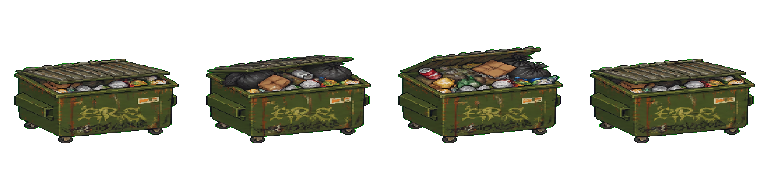
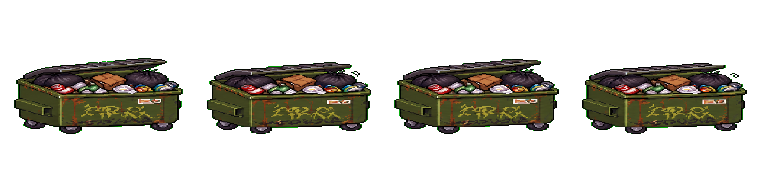
art: revise dumpster to cartoon 16-bit style

Changed region(s): [[0.0, 0.2188, 1.0, 0.75]]

diff --git a/concepts/dumpster/PROMPTS.md b/concepts/dumpster/PROMPTS.md
@@ -1,20 +1,20 @@
 # Dumpster generation prompts
 
-These are the exact prompts for the two source sheets. Both prompts use the same visual reference roles so that the dumpster silhouette and camera remain stable between states.
+These are the exact prompts for the revised cartoon-style source sheets. Both prompts use the existing hero and enemy atlases as hard style anchors so the dumpster reads as part of the same polished 16-bit cast.
 
 ## Reference roles
 
-- **Game-style reference:** the established Trash Dash pixel-art sheets; use for dark navy outlines, clustered pixel shading, semi-natural proportions, and crisp nearest-neighbor edges.
+- **Game-style reference:** `public/assets/generated/player-hero-motion.png` and `public/assets/generated/enemy-variety-motion.png`; use for chunky side-view silhouettes, dark navy outlines, 16-bit pixel clusters, simplified cartoon proportions, and crisp nearest-neighbor edges.
 - **Subject reference:** the approved dumpster goal design described in `docs/superpowers/specs/2026-08-05-dumpster-goal-sprite-design.md`; use for the three-quarter view, dark-green steel body, partly open lid, overflowing trash, graffiti, dents, rust, grime, and crooked caster wheels.
 - **Motion reference:** the preceding frame in the same generated sheet; preserve the exact footprint, camera angle, scale, and contact point while changing only the requested animation details.
 
 ## Idle source sheet
 
-> Create a 4-frame horizontal pixel-art animation sheet for the Trash Dash post-boss dumpster goal. Use the established Trash Dash sheets as the game-style reference and the approved dumpster goal design as the subject reference. Render exactly four evenly spaced 192×192 frames on one 768×192 canvas with a flat, uniform `#00ff00` chroma-key background. Keep a three-quarter side camera, silhouette, scale, footprint, wheel/contact point, and partly-open lid locked across all frames. Show an old dark-green steel dumpster with dark navy contour pixels, clustered three-to-four-value shading, dents, chipped paint, rust, grime, crooked caster wheels, overflowing bags/cans/cardboard/paper/spoiled-food shapes, and restrained non-legible graffiti. Animate only subtle ambient changes: frame 1 lid creak, frame 2 a small trash settle, frame 3 a restrained fly shift, frame 4 return toward the starting pose. Use hard pixel edges, no gradients, no anti-aliasing, and transparent-style separation from the key background. No text, logos, scenery, ground plane, shadows outside the silhouette, UI, characters, or extra props.
+> Create a polished 16-bit 4-frame horizontal sprite sheet for the Trash Dash post-boss dumpster goal. Match the existing raccoon hero and enemy atlases as hard style references: compact side-view silhouettes, chunky dark navy outline, simplified cartoon proportions, three-tone pixel clusters, and bright readable accents. Render exactly four evenly spaced 192×192 frames on one 768×192 canvas with a flat, uniform `#00ff00` chroma-key background. Keep the side-view silhouette, scale, footprint, wheel/contact point, lid angle, and trash pile locked across all frames. Show one old dark-olive dumpster with a big chunky body, partly-open lid, three black trash bags, a few large cans/cardboard/food scraps, two crooked wheels, simple non-legible graffiti squiggles, and one small rust patch. Animate only tiny lid bob and one bag wobble. Use hard pixel edges, no gradients, no anti-aliasing, no realistic metal texture, and no perspective rendering. No text, logos, scenery, ground plane, shadows outside the silhouette, UI, characters, flies, or extra props.
 
 ## Stink source sheet
 
-> Create a 4-frame horizontal pixel-art animation sheet for the same Trash Dash post-boss dumpster goal, using the established Trash Dash sheets as the game-style reference, the approved dumpster goal design as the subject reference, and the preceding frame as the motion reference. Render exactly four evenly spaced 192×192 frames on one 768×192 canvas with a flat, uniform `#00ff00` chroma-key background. Lock the dumpster's three-quarter side camera, silhouette, scale, footprint, wheel/contact point, lid angle, trash, graffiti, and palette across every frame. Animate a restrained stink loop: curling muted green-brown odor wisps emerge from the overflowing opening, rise, bend, and change shape across the four frames while remaining readable against varied backgrounds; keep the dumpster itself nearly stationary. Use dark navy contour pixels, clustered three-to-four-value shading, hard pixel edges, no gradients, and no anti-aliasing. No text, logos, scenery, ground plane, external shadows, UI, characters, flies, or any new objects beyond the odor wisps.
+> Create a polished 16-bit 4-frame horizontal stink animation sheet for the same Trash Dash dumpster, using the existing hero and enemy atlases plus the revised idle sheet as hard references. Render exactly four evenly spaced 192×192 frames on one 768×192 canvas with a flat, uniform `#00ff00` chroma-key background. Lock the dumpster's compact side-view silhouette, scale, footprint, wheel/contact point, lid angle, trash, graffiti, and palette across every frame. Animate only chunky muted green-brown odor puffs with dark navy pixel edges: small puff, taller curl, split puff, return puff. Keep the dumpster itself nearly stationary. Use three-tone clustered shading, hard pixel edges, no gradients, no realistic smoke, no anti-aliasing, no text, logos, scenery, ground plane, external shadows, UI, characters, flies, or any new objects beyond the odor puffs.
 
 ## Shared negative constraints
 

diff --git a/concepts/dumpster/README.md b/concepts/dumpster/README.md
@@ -16,7 +16,7 @@ Final frame indices are 0–3 for idle and 4–7 for stink. Suggested playback i
 
 ## Visual target
 
-Three-quarter side view of an old, dark-green steel dumpster with dents, chipped paint, rust, grime, crooked caster wheels, a partly open lid, overflowing trash, and non-legible graffiti marks. Use the established dark navy contour, clustered three-to-four-value pixel shading, crisp edges, and no gradients or anti-aliasing. Trash and graffiti may add color, but the dumpster body remains visually dominant.
+Compact side view of an old, dark-green steel dumpster with chunky cartoon proportions, dents, chipped paint, rust, grime, crooked caster wheels, a partly open lid, overflowing trash, and non-legible graffiti marks. Match the hero and enemy sprites with a dark navy contour, chunky 16-bit pixel clusters, three-tone cel shading, crisp edges, and no gradients or anti-aliasing. Trash and graffiti may add color, but the dumpster body remains visually dominant.
 
 ## Workspace layout
 
